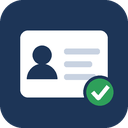
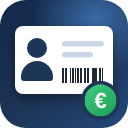
4.8.2: tekstit (vain hallintapaneelissa, kirjanpitoraportti), uudet kuvat, ikoni ja banneri
Claude-Session: https://claude.ai/code/session_01WremRbxGDai2cTBYzcBUSZ

diff --git a/docs/brand/banner.html b/docs/brand/banner.html
@@ -1,0 +1,41 @@
+<!doctype html><html><head><meta charset="utf-8"><style>
+*{box-sizing:border-box;margin:0;padding:0}
+body{width:1544px;height:500px;overflow:hidden;font-family:"Inter","Segoe UI",Arial,sans-serif;
+ background:radial-gradient(900px 500px at 85% 20%,#2f5f98 0%,rgba(47,95,152,0) 60%),linear-gradient(120deg,#0f2140 0%,#1a3358 45%,#22426e 100%);color:#fff;position:relative}
+.dots{position:absolute;inset:0;background-image:radial-gradient(rgba(255,255,255,.07) 1.5px,transparent 1.6px);background-size:28px 28px;mask-image:linear-gradient(90deg,transparent 0%,#000 55%)}
+.left{position:absolute;left:92px;top:74px;width:760px}
+.tag{font-weight:700;letter-spacing:.28em;color:#8fb8ff;font-size:26px}
+h1{font-size:96px;font-weight:800;letter-spacing:-.02em;margin:6px 0 14px;line-height:1}
+.sub{font-size:30px;color:#dbe6f5;line-height:1.3}
+.chips{margin-top:28px;display:flex;flex-wrap:wrap;gap:10px;width:760px}
+.chip{font-size:20px;padding:8px 16px;border-radius:999px;background:rgba(255,255,255,.1);border:1px solid rgba(255,255,255,.18);color:#e8f0fb}
+.chip b{color:#7ee2a8;font-weight:700;margin-right:6px}
+/* paperi */
+.paper{position:absolute;right:300px;top:58px;width:300px;height:400px;background:#fff;border-radius:10px;transform:rotate(-7deg);box-shadow:0 30px 60px rgba(0,0,0,.35);padding:24px 22px;color:#1f2933}
+.paper .t{font-weight:800;color:#1d3557;font-size:20px}
+.ln{height:9px;border-radius:5px;background:#e3e8ef;margin:9px 0}
+.form{position:absolute;left:14px;right:14px;bottom:52px;height:118px;border-top:2px dashed #9aa5b1;padding-top:8px}
+.grid{display:grid;grid-template-columns:30% 70%;height:100%;border:2px solid #111}
+.grid div{border-bottom:2px solid #111}
+.grid div:nth-child(odd){border-right:2px solid #111}
+.bar{position:absolute;left:18px;bottom:14px;height:30px;width:200px;background:repeating-linear-gradient(90deg,#111 0 2px,#fff 2px 4px,#111 4px 7px,#fff 7px 8px,#111 8px 9px,#fff 9px 12px)}
+/* maksukortti */
+.card{position:absolute;right:70px;top:110px;width:330px;background:#fff;border-radius:18px;box-shadow:0 30px 70px rgba(0,0,0,.4);overflow:hidden;color:#1f2933;transform:rotate(3deg)}
+.card .top{background:#eaf2fb;padding:20px 22px}
+.small{font-size:16px;color:#6b7785}
+.amt{font-size:42px;font-weight:800;color:#1d3557;line-height:1.1}
+.row{padding:12px 22px;border-top:1px solid #e3e8ee}
+.row .v{font-size:19px;font-weight:700;font-family:Consolas,Menlo,monospace}
+.paid{position:absolute;right:14px;top:14px;background:#1f9d55;color:#fff;font-weight:700;font-size:15px;padding:5px 11px;border-radius:999px}
+.coin{position:absolute;right:380px;bottom:36px;width:96px;height:96px;border-radius:50%;background:linear-gradient(145deg,#3ccf7f,#1f9d55);box-shadow:0 14px 30px rgba(0,0,0,.35);display:flex;align-items:center;justify-content:center;font-size:54px;font-weight:800;color:#fff}
+</style></head><body><div class="dots"></div>
+<div class="left"><div class="tag">OH6KW</div><h1>Jäsenrekisteri</h1>
+<div class="sub">Jäsenrekisteri ja jäsenmaksulaskutus<br>suomalaisille yhdistyksille</div>
+<div class="chips"><span class="chip"><b>✓</b>Viitenumerot</span><span class="chip"><b>✓</b>QR- ja pankkiviivakoodi</span><span class="chip"><b>✓</b>PDF- ja paperilaskut</span><span class="chip"><b>✓</b>Pankkituonti</span><span class="chip"><b>✓</b>Vuosiraportti</span><span class="chip"><b>✓</b>Kirjanpitoraportti</span></div></div>
+<div class="paper"><div class="t">LASKU</div><div class="ln" style="width:60%"></div><div class="ln" style="width:85%"></div><div class="ln" style="width:75%"></div><div class="ln" style="width:50%"></div>
+<div class="form"><div class="grid"><div></div><div></div><div></div><div></div><div></div><div></div></div></div><div class="bar"></div></div>
+<div class="card"><div class="top"><div class="small">Maksettava</div><div class="amt">25,00 €</div><div style="font-size:17px;margin-top:4px">Eräpäivä <b>31.10.</b></div><span class="paid">✓ Maksettu</span></div>
+<div class="row"><div class="small">Saajan tilinumero (IBAN)</div><div class="v">FI79 4405 2020 0360 82</div></div>
+<div class="row"><div class="small">Viitenumero</div><div class="v">2 00017</div></div></div>
+<div class="coin">€</div>
+</body></html>

diff --git a/docs/brand/icon.html b/docs/brand/icon.html
@@ -1,0 +1,12 @@
+<!doctype html><html><head><meta charset="utf-8"><style>
+*{box-sizing:border-box;margin:0;padding:0}
+body{width:256px;height:256px;background:transparent}
+.bg{position:absolute;inset:0;border-radius:52px;background:radial-gradient(180px 160px at 75% 15%,#3a6aa6 0%,rgba(58,106,166,0) 70%),linear-gradient(140deg,#13284a,#1d3557 55%,#24477a)}
+.card{position:absolute;left:30px;top:52px;width:196px;height:136px;background:#fff;border-radius:16px;box-shadow:0 10px 22px rgba(0,0,0,.35)}
+.head{position:absolute;left:24px;top:24px;width:40px;height:40px;border-radius:50%;background:#1d3557}
+.body{position:absolute;left:12px;top:70px;width:64px;height:40px;border-radius:32px 32px 6px 6px;background:#1d3557}
+.l{position:absolute;left:94px;height:11px;border-radius:6px;background:#c9d6e5}
+.bar{position:absolute;left:94px;top:84px;width:82px;height:30px;background:repeating-linear-gradient(90deg,#1f2933 0 3px,#fff 3px 5px,#1f2933 5px 9px,#fff 9px 11px,#1f2933 11px 12px,#fff 12px 15px)}
+.ok{position:absolute;right:16px;bottom:16px;width:78px;height:78px;border-radius:50%;background:linear-gradient(145deg,#3ccf7f,#1f9d55);border:7px solid #1d3557;display:flex;align-items:center;justify-content:center;color:#fff;font:800 44px Arial,sans-serif}
+</style></head><body><div class="bg"></div><div class="card"><div class="head"></div><div class="body"></div>
+<div class="l" style="top:30px;width:84px"></div><div class="l" style="top:52px;width:62px"></div><div class="bar"></div></div><div class="ok">€</div></body></html>

diff --git a/includes/about.php b/includes/about.php
@@ -57,6 +57,7 @@ function jasrek_page_about() {
         <div class="jasrek-panel">
             <h2>OH6KW Jäsenrekisteri <?php echo esc_html(JASREK_VERSION); ?></h2>
             <p>Jäsenrekisteri ja jäsenmaksulaskutus yhdistyksille.</p>
+            <p class="description">Jäsenrekisteri toimii vain hallintapaneelissa. Sivustolle ei julkaista mitään, eikä jäsentietoja näy kävijöille.</p>
             <dl>
                 <dt>Tekijä</dt>
                 <dd>Jarno Jaskari, OH6KW – alkuperäinen lisäosa, ideointi ja ylläpito</dd>

diff --git a/README.md b/README.md
@@ -2,7 +2,7 @@
 
 Jäsenrekisteri ja jäsenmaksulaskutus WordPressin hallintapaneeliin suomalaisille yhdistyksille.
 
-Lähetä koko jäsenistölle jäsenmaksulaskut sähköpostilla yhdellä painalluksella, ja tulosta paperilaskut niille, jotka niitä haluavat. Jokainen lasku saa oman suomalaisen viitenumeron, QR-koodin ja pankkiviivakoodin. Tuo maksut pankin tiedostosta, ja ne kohdistuvat oikeille jäsenille viitteen perusteella, vaikka maksaja olisi puoliso tai vanhempi.
+Lähetä koko jäsenistölle jäsenmaksulaskut sähköpostilla yhdellä painalluksella, ja tulosta paperilaskut niille, jotka niitä haluavat. Jokainen lasku saa oman suomalaisen viitenumeron, QR-koodin ja pankkiviivakoodin. Tuo maksut pankin tiedostosta, ja ne kohdistuvat oikeille jäsenille viitteen perusteella, vaikka maksaja olisi puoliso tai vanhempi. Vuosikokoukseen saat vuosiraportin ja äänioikeusluettelon, kirjanpitäjälle valmiin vientiehdotuksen jäsenmaksuista.
 
 [![Versio](https://img.shields.io/github/v/release/oh6kw/oh6kw-jasenrekisteri?label=versio)](https://github.com/oh6kw/oh6kw-jasenrekisteri/releases/latest)
 ![WordPress 6.2+](https://img.shields.io/badge/WordPress-6.2%2B-21759b)
@@ -13,6 +13,19 @@ Lähetä koko jäsenistölle jäsenmaksulaskut sähköpostilla yhdellä painallu
 ![Jäsenlista](docs/kuvat/01-jasenlista.png)
 
 > Kuvissa on keksitty esimerkkiyhdistys. Nimet, jäsennumerot, osoitteet ja puhelinnumerot ovat kuvitteellisia, ja tilinumero on pankkien yleisesti käyttämä esimerkkinumero.
+
+## Toimii vain hallintapaneelissa
+
+Lisäosa ei julkaise sivustolle mitään. Se ei lisää sivuja, lomakkeita, lyhytkoodeja eikä lohkoja, eikä jäsentietoja näy sivuston kävijöille. Jäsenrekisteri on WordPressin hallintapaneelissa vain ylläpitäjien käytössä.
+
+WordPress toimii rekisterin ”moottorina”, ja sen valmiit ominaisuudet hoitavat paljon:
+- **Kirjautuminen ja käyttäjät:** rekisterin näkevät vain ylläpitäjät. Kirjautumista voi vahvistaa esimerkiksi kaksivaiheisella tunnistautumisella erillisellä lisäosalla.
+- **Automaattiset päivitykset:** kun lisäosa on asennettu WordPress.orgista, WordPress voi päivittää sen automaattisesti.
+- **Varmuuskopiot:** rekisteri on sivuston omassa tietokannassa, joten webhotellin tai varmuuskopiolisäosan kopiot kattavat myös sen. Lisäosassa on lisäksi oma varmuuskopio rekisterin siirtoon.
+- **Sähköposti:** laskut lähtevät WordPressin sähköpostin kautta. SMTP-lisäosalla ne lähtevät yhdistyksen omalta sähköpostitililtä.
+- **Salattu yhteys (HTTPS)** ja palvelimen ylläpito tulevat sivuston omasta webhotellista.
+
+Näin yhdistys saa jäsenrekisterin ilman erillistä palvelua, kuukausimaksuja tai uusia tunnuksia. Rekisteri toimii jo olemassa olevan sivuston taustalla.
 
 ## Ominaisuudet
 
@@ -33,12 +46,13 @@ Lähetä koko jäsenistölle jäsenmaksulaskut sähköpostilla yhdellä painallu
 **Laskutus**
 - Lasku koko jäsenistölle tai valituille jäsenille. Summa määräytyy jäsenluokan mukaan, ja sitä voi muuttaa laskukohtaisesti.
 - Yksilöllinen viitenumero (7-3-1-tarkiste), josta näkee suoraan laskun ja jäsenen.
-- Siisti HTML-lasku, jossa on EPC QR -koodi, pankkiviivakoodi (versio 4) ja virtuaaliviivakoodi tekstinä. Sähköpostissa on mukana myös tekstiversio.
+- Laskussa on EPC QR -koodi ja/tai pankkiviivakoodi (versio 4) asetuksen mukaan sekä aina virtuaaliviivakoodi tekstinä. Sähköpostissa on mukana myös tekstiversio.
 - Ennen lähetystä voi esikatsella laskun ja lähettää testilaskun valittuun osoitteeseen.
 - Lähetys tehdään pienissä erissä edistymispalkin kanssa, joten suurikaan jäsenmäärä ei aiheuta aikakatkaisuja. Jo lähetettyjä laskuja ei lähetetä uudelleen.
 - **Paperilaskut:** jäsenelle voi valita ”Haluaa laskun paperilla”. Hänelle ja jäsenille, joilla ei ole sähköpostia, ei lähetetä sähköpostia, vaan laskun sivulla on oma lista, josta laskut tulostetaan A4-paperille ikkunakuoreen sopiviksi (QR- ja pankkiviivakoodeineen) ja merkitään postitetuiksi. Myös paperiset maksumuistutukset.
 - **Paperilaskun malli:** perusmalli tai perinteinen suomalainen **tilisiirtolomake** sivun alareunassa (Asetukset → Paperilaskut). Kummassakin mallissa nimi ja osoite osuvat kuoren ikkunaan.
 - **Sähköpostilasku maksukorttina** (oletus): summa ja eräpäivä isolla, maksun tiedot allekkain helposti kopioitavina, virtuaaliviivakoodi ja QR-koodi. Toimii puhelimessa ja tietokoneella. Valinnaisena **PDF-liite**, joka on sama A4-lasku kuin paperilasku.
+- **Lasku hukassa?** Sähköpostilaskun saajan rivillä on *Tulosta*-painike (erääntyneelle *Tulosta muistutus*): sama A4-lasku tulostettavaksi tai tallennettavaksi PDF:nä, jonka voi lähettää jäsenelle omasta sähköpostista.
 - **Postimaksu:** asetuksissa voi määrittää postimaksun (esim. 2,50 €), joka lisätään vain paperilaskun saajien laskuihin. Laskun yläosassa näkyvät erikseen jäsenmaksu, postimaksu ja maksettava, ja QR- ja viivakoodissa on kokonaissumma. Vuosiraportti erittelee kertyneet postimaksut. Saatetekstissä `{summa}` on jäsenmaksu ja `{maksettava}` maksettava yhteensä. Ikkunakuoren palautusosoitteen voi antaa asetuksissa.
 - Maksumuistutukset käsin tai automaattisesti, esim. 14 päivää eräpäivän jälkeen ja enintään 2 kertaa. Rahastonhoitaja saa halutessaan yhteenvedon lähetetyistä muistutuksista.
 
@@ -49,7 +63,7 @@ Lähetä koko jäsenistölle jäsenmaksulaskut sähköpostilla yhdellä painallu
 - Merkintä onnistuu myös käsin, yksittäin tai joukkona. Hakukenttä löytää laskun tiliotteen viitteellä.
 - **Excel-raportti:** yhdellä painalluksella kaikki laskut yhteen Excel-tiedostoon: yhteenveto, kaikki avoimet maksut ja jokainen lasku omalla välilehdellään (kuka on maksanut, kuka ei, maksupäivät ja maksajat).
 
-**Vuosiraportti ja muutosloki**
+**Raportit vuosikokoukseen ja kirjanpitäjälle**
 - **Äänioikeusluettelo vuosikokoukseen:** tulostettava luettelo jäsenistä, joiden jäsenmaksu valitulta laskulta on maksettu tai joiden jäsenluokan jäsenmaksu on 0 €, ja allekirjoitussarake.
 - **Vuosiraportti vuosikokoukseen:** jäsenmäärät jäsenluokittain vuoden alussa ja lopussa, liittyneet ja eronneet, vuoden laskut (laskutettu, maksettu, avoinna) jäsenluokittain sekä vuoden aikana kertyneet jäsenmaksut ja vuoden merkkipäivät. Tulostettavissa ja vietävissä Exceliin.
 - **Jäsenmaksut kirjanpitoon** (Vuosiraportin toinen välilehti): vientiehdotus kirjanpitäjälle (*Pankkitili / Jäsenmaksutuotot*) maksupäivittäin tai kuukausittain mille tahansa aikavälille, erittely jäsenluokittain, postimaksut erikseen, poikkeavat maksut ja avoimet jäsenmaksut aikavälin lopussa. Tilien nimet tai numerot asetuksissa. Tulostettavissa ja Exceliin (myös jokainen maksu jäsenittäin). Lisäosa ei tee kirjanpitoa – raportti on apu kirjanpitäjälle.
@@ -72,8 +86,8 @@ Lähetä koko jäsenistölle jäsenmaksulaskut sähköpostilla yhdellä painallu
 | ![Omat lisäkentät](docs/kuvat/17-lisakentat.png) **Omat lisäkentät** ja **merkkipäivien** valinnat asetuksissa. | ![Äänioikeusluettelo](docs/kuvat/18-aanioikeusluettelo.png) **Äänioikeusluettelo** vuosikokoukseen allekirjoitussarakkeineen. |
 | ![Merkkipäivät](docs/kuvat/19-merkkipaivat.png) **Merkkipäivät** vuosiraportissa (valinnainen). | ![Uusi jäsen kesken kauden](docs/kuvat/11-uusi-jasen-laskulle.png) **Kesken kauden liittyvä jäsen** lisätään jo lähetetylle laskulle, ja hän saa oman eräpäivän. |
 | ![Varmuuskopio](docs/kuvat/20-varmuuskopio.png) **Varmuuskopio ja siirto** asetuksissa. | ![Palautus](docs/kuvat/21-palautus.png) **Palautus:** yhteenveto ja vahvistus ennen kuin mitään muutetaan. |
-| ![Maksukortti puhelimessa](docs/kuvat/25-maksukortti-puhelin.png) **Sähköpostilasku puhelimessa.** | ![Tietosuojaseloste](docs/kuvat/23-tietosuojaseloste.png) **Tietosuojaselosteen pohja** yhdistyksen tiedoilla. |
-| ![Tietoja ja palaute](docs/kuvat/12-tietoja.png) **Tietoja ja palaute:** palautelomake ja Ko-fi. | |
+| ![Jäsenmaksut kirjanpitoon](docs/kuvat/26-kirjanpito.png) **Jäsenmaksut kirjanpitoon:** vientiehdotus kirjanpitäjälle, erittely jäsenluokittain ja avoimet jäsenmaksut. | ![Maksukortti puhelimessa](docs/kuvat/25-maksukortti-puhelin.png) **Sähköpostilasku puhelimessa.** |
+| ![Tietosuojaseloste](docs/kuvat/23-tietosuojaseloste.png) **Tietosuojaselosteen pohja** yhdistyksen tiedoilla. | ![Tietoja ja palaute](docs/kuvat/12-tietoja.png) **Tietoja ja palaute:** palautelomake ja Ko-fi. |
 
 ## Asennus
 

diff --git a/CHANGELOG.md b/CHANGELOG.md
@@ -15,6 +15,14 @@ Tekijä: Jarno Jaskari (oh6kw). Versiosta 3.0 alkaen lisäosaa on kehitetty yhde
 - **Tulosta** (sama tulostettava sivu kuin vuosiraportissa) ja **Vie Exceliin**: välilehdet *Vientiehdotus*, *Maksut* (jokainen maksu jäsenittäin: maksupäivä, jäsen, lasku, viite, jäsenluokka, laskutettu, maksettu, postimaksu, maksaja), *Jäsenluokittain*, *Poikkeavat maksut* ja *Avoimet* jäsenittäin. Excel-vienti kirjataan muutoslokiin.
 - Summat on tarkistettu tietokannan maksuja vasten; maksupäivittäinen ja kuukausittainen vientiehdotus antavat saman loppusumman.
 
+### Tekstit ja kuvat
+- **Toimii vain hallintapaneelissa:** README, wordpress.orgin kuvaus ja Tietoja-sivu kertovat, ettei lisäosa julkaise sivustolle mitään (ei sivuja, lomakkeita, lyhytkoodeja eikä lohkoja) ja että WordPress hoitaa kirjautumisen, käyttäjät, automaattiset päivitykset sekä webhotellin varmuuskopiot ja HTTPS:n.
+- wordpress.orgin kuvaus jäsennelty uudelleen: sähköposti- ja paperilasku omina kohtinaan, *Raportit vuosikokoukseen ja kirjanpitäjälle*, *Tietosuoja, varmuuskopio ja siirto*. Uudet usein kysytyt kysymykset: näkyykö sivustolla jotain, ja tekeekö lisäosa kirjanpidon.
+- Uusi kuvakaappaus *Jäsenmaksut kirjanpitoon* (README ja wordpress.org, kuva 12).
+- Uusi wordpress.orgin ikoni ja banneri (lähteet `docs/brand/`).
+- Kuvat 02, 05 ja 11 otettu uudelleen: päivämäärät suomalaisessa muodossa ja jäsenlomake nykyisen näköisenä.
+- Vanhentunut ohje päivityksestä versiosta 4.6.4 tai vanhemmasta poistettu.
+
 ### Muuta
 - GitHubin julkaisuautomaatio: käsin tehty julkaisu ei enää käynnistä automaatiota kahdesti (aiemmin toinen ajo näkyi epäonnistuneena), ja työkalut päivitetty (Node.js 20 -varoitus poistuu). Ei vaikuta lisäosaan.
 
